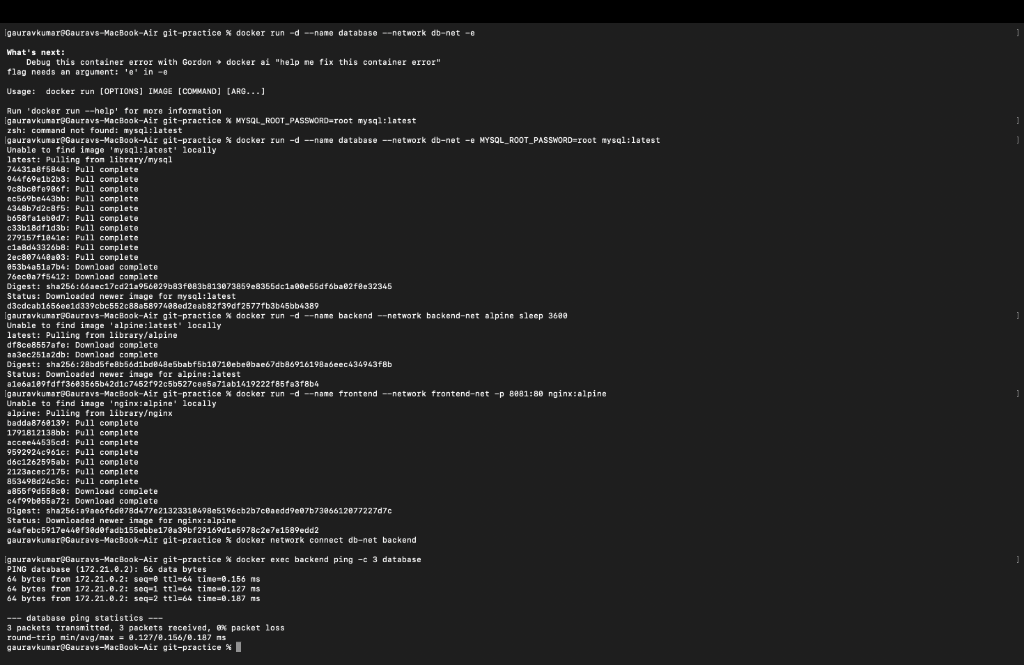
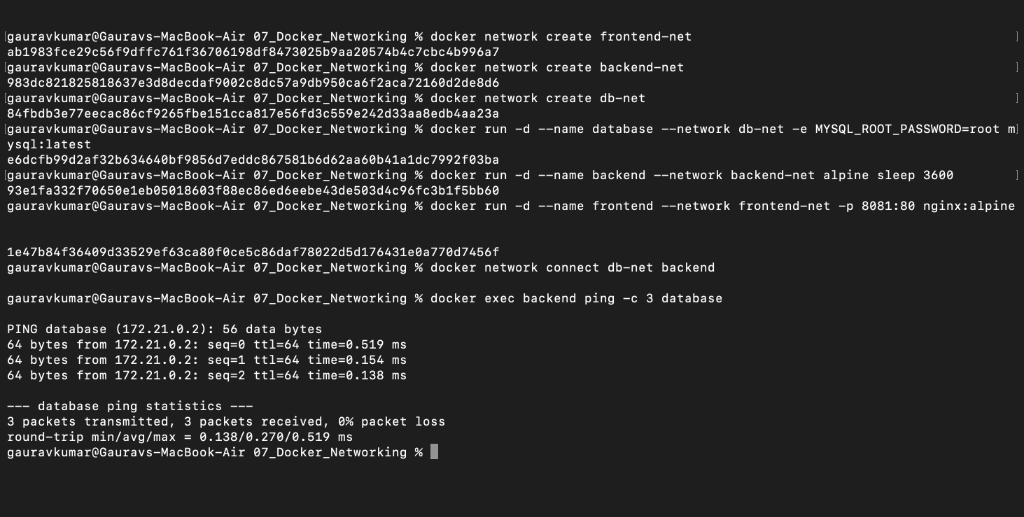
final screenshots for all 07 tasks

Changed region(s): [[0.0, 0.0, 1.0, 0.9903], [0.5312, 0.3095, 1.0, 0.4333], [0.7812, 0.2166, 0.9688, 0.2785]]

diff --git a/07_Docker_Networking/README.md b/07_Docker_Networking/README.md
@@ -78,13 +78,6 @@ curl http://localhost:8082
 **Screenshot of Task 3 Execution:**
 ![Task 3 Execution](images/task3.png)
 
-**Browser Verification for Bind Mount:**
-Before modifying the index.html file:
-![Browser Verification Before](images/browser1.png)
-
-After modifying the index.html file:
-![Browser Verification After](images/browser2.png)
-
 ---
 
 ## Task 4: Overlay Network
